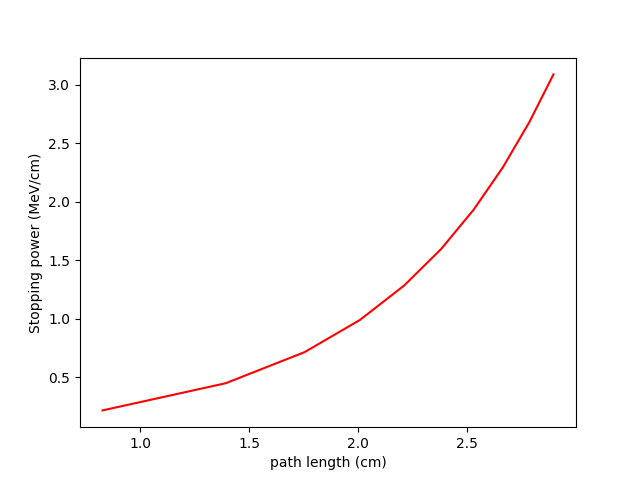
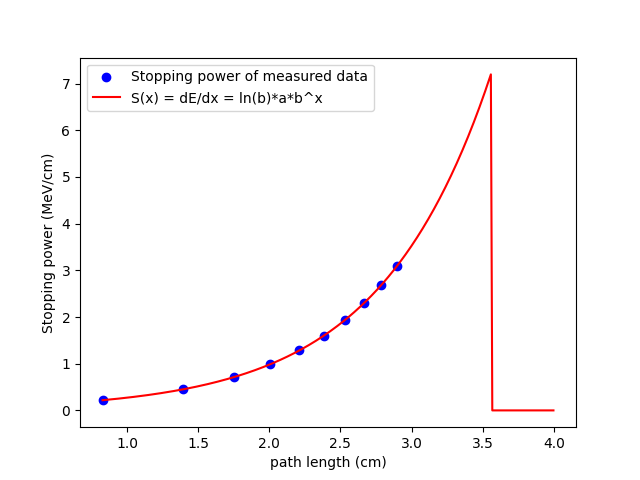
added the range of an alpha ray

diff --git a/src/alpha/alpha_ray.py b/src/alpha/alpha_ray.py
@@ -27,8 +27,11 @@ class Measurement:
 
     volt = []
     volt_error = []
+
     conversion_factor = 1 # placeholder value
+    energy_alpha_init = 5.48 # Mev
     energy = []
+
     energy_error = []
 
     stopping_power_list = []
@@ -124,11 +127,7 @@ class Measurement:
         Measurement.energy.append(self.volt_to_energy(self.fit_gauss1mu))
         Measurement.energy_error.append(self.volt_to_energy(self.fit_gauss1mu_err))
 
-    @classmethod
-    def energy_fit(cls):
-        """fit of the energy diagram with the exponential decay function
-        """        
-        def exp_decay(x, a: float, b:float, c: float) -> float:
+    def exp_decay(x, a: float, b:float, c: float) -> float:
             """Exponential decay function to fit for the (energy, path length) diagram
 
             Args:
@@ -142,22 +141,30 @@ class Measurement:
             """            
             energy = c - a * b**x
             return energy
-        
+
+    @classmethod
+    def energy_fit(cls):
+        """fit of the energy diagram with the exponential decay function
+        """        
         energy_weight = [1/energy_err for energy_err in cls.energy_error]
-        cls.model_energy = models.Model(exp_decay, nan_policy='propagate')
+        cls.model_energy = models.Model(cls.exp_decay, nan_policy='propagate')
         cls.result_energy = cls.model_energy.fit(cls.energy, x=cls.path_length_list, weights=energy_weight, a=0.1, b=5, c=2)
         print(cls.result_energy.fit_report())
         cls.a = cls.result_energy.params['a'].value
         cls.b = cls.result_energy.params['b'].value
+        cls.c = cls.result_energy.params['c'].value
 
 
     @classmethod
     def energy_plot(cls):
         """Plot a diagram of the energy of the alpha particle against the path length 
-        """        
+        """
+        cls.path_length_continuous = np.arange(cls.path_length_list[0], cls.path_length_list[-1], 0.01)
+        cls.energy_continuous = [cls.exp_decay(num, a=cls.a, b=cls.b, c=cls.c) for num in cls.path_length_continuous]
+
         fig = plt.figure("(E,x)_diagram.png")
         plt.errorbar(cls.path_length_list, cls.energy, yerr=cls.energy_error, fmt='bo', ecolor='k', label='data')
-        plt.plot(cls.path_length_list, cls.result_energy.best_fit, 'r', label='best fit')
+        plt.plot(cls.path_length_continuous, cls.energy_continuous, 'r', label=f'E(x) = c - a*b^x')
         plt.xlabel('path length (cm)')
         plt.ylabel('Energy (MeV)')
         plt.legend(loc='upper right')
@@ -173,8 +180,7 @@ class Measurement:
     def calc_conversion_factor(self):
         """calculate the conversion factor to go from a voltage to an energy
         """        
-        energy_alfa = 5.48 # Mev
-        Measurement.conversion_factor = energy_alfa/self.fit_gauss1mu
+        Measurement.conversion_factor = Measurement.energy_alpha_init/self.fit_gauss1mu
 
     @staticmethod
     def volt_to_energy(voltage: float) -> float:
@@ -225,12 +231,16 @@ class Measurement:
     @classmethod
     def stopping_power_plot(cls):
         """Plots the stopping power against the path length and plots an (E,x) and a (S,x) diagram
-        """        
+        """
         cls.stopping_power_list = [cls.stopping_power_function(num) for num in cls.path_length_list]
+        cls.path_length_continuous = np.arange(cls.path_length_list[0], 4, 0.01)    
+        cls.stopping_power_continuous = [cls.stopping_power_function(num) if cls.exp_decay(num, a=cls.a, b=cls.b, c=cls.c) > 0 else 0 for num in cls.path_length_continuous]
         fig = plt.figure("(S,x)_diagram.png")
-        plt.plot(cls.path_length_list, cls.stopping_power_list, 'r')
+        plt.scatter(cls.path_length_list, cls.stopping_power_list, c='blue', label='Stopping power of measured data')
+        plt.plot(cls.path_length_continuous, cls.stopping_power_continuous, 'r', label=f'S(x) = dE/dx = ln(b)*a*b^x')
         plt.xlabel("path length (cm)")
         plt.ylabel("Stopping power (MeV/cm)")
+        plt.legend(loc='upper left')
 
         # go to fits folder to save fit
         os.chdir(os.path.join(python_file_path, "Fits"))
@@ -240,9 +250,15 @@ class Measurement:
         os.chdir(os.path.join(python_file_path, "CSV data"))
         plt.show()
     
+    @classmethod
+    def alpha_range(cls):
+        # we could also use c - E0 instead of a
+        range_alpha_ray = np.log(cls.c/(cls.a))/np.log(cls.b)
+        return range_alpha_ray
 
-def run():
-    """runs the experiment with different pressures
+
+def measurement_air():
+    """runs the experiment with different pressures in air
     """    
     meas1_vacuum = Measurement("alfa bron 21 mbar.csv", end_point=1000, pressure = 21)
     meas1_vacuum.data_fit(start_expmu=0.05, start_gauss1_mu=0.2)
@@ -287,6 +303,13 @@ def run():
     Measurement.energy_fit()
     Measurement.energy_plot()
     Measurement.stopping_power_plot()
+    print(f"The range of an alpha particle in air with atmosiferic pressure is {round(Measurement.alpha_range(), 2)} cm")
+
+
+def run():
+    """Runs measurements with different gasses
+    """    
+    measurement_air()
 
 
 if __name__ == "__main__":
